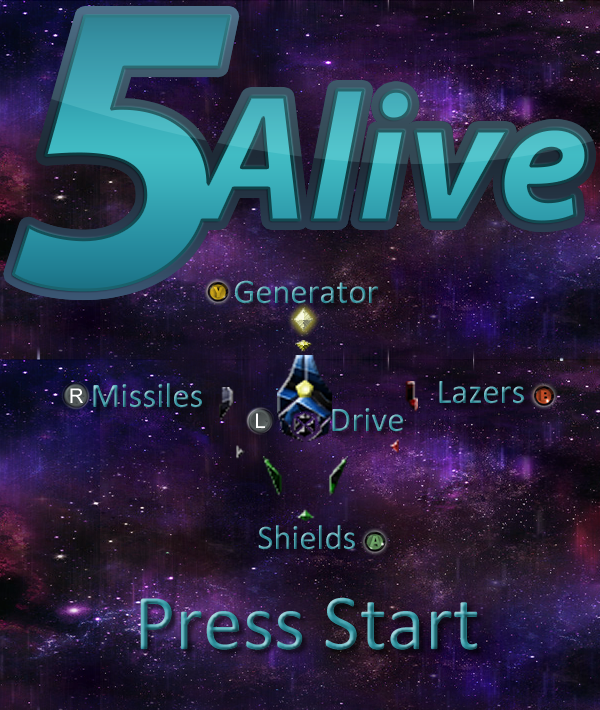
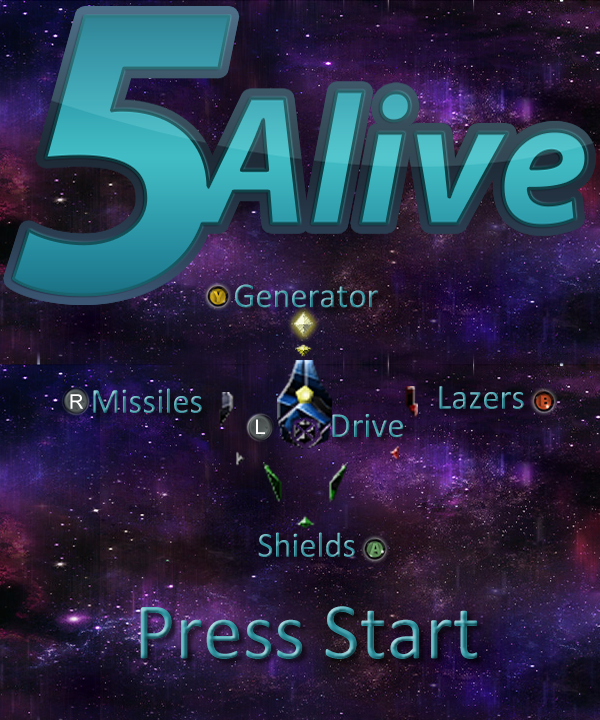
:LKYHGDNS YES

diff --git a/js/main.js b/js/main.js
@@ -864,6 +864,27 @@ var PulseScene = Class.create(Scene, {
 	}
 });
 
+var StartScene = Class.create(Scene, {
+	initialize: function() {
+		Scene.apply(this);
+		
+		var sprite = new Sprite(600, 720);
+		sprite.image = game.assets['images/start.png'];
+		this.addChild(sprite);
+		game.pushScene(this);
+	},
+		
+	onenterframe: function() {
+		updatecontroller();
+		if (controller !== undefined) {
+			if (controller.buttons[CONT_INPUT.start] === 1) {
+				// Call game state
+				game.popScene();
+			}
+		}
+	}
+});
+
 var gameWidth = 600;
 var gameHeight = 720;
 
@@ -916,7 +937,7 @@ window.onload = function() {
 		'images/gui_barFrame_FlashRed.png', 'images/gui_barFrame_FlashGreen.png',
 		'sounds/generator.mp3', 'sounds/shield.mp3', 'sounds/missiles.mp3',
 		'sounds/offline.mp3', 'sounds/online.mp3', 'sounds/lazers.mp3',
-		'sounds/HELLISTHEBULLET.wav');
+		'sounds/HELLISTHEBULLET.wav', 'images/start.png');
 	
 	game.fps = 60;
 	game.scale = 1;
@@ -931,6 +952,7 @@ window.onload = function() {
 
 	game.onload = function() {
 		var label, bg, bar;
+		var startScreen = new StartScene();
 
         FunctionSetup();
 		label = new Label("FIVE Players.  ONE controller.");

diff --git a/index.html b/index.html
@@ -2,7 +2,7 @@
 <html>
 <head>
 	<meta charset="utf-8">
-	<title>Sample Page</title>
+	<title>5Alive</title>
 	<script src="js/lib/enchant.js"></script>
 	<script src="js/lib/jquery.min.js"></script>
 	<script src="js/lib/aud.js"></script>
